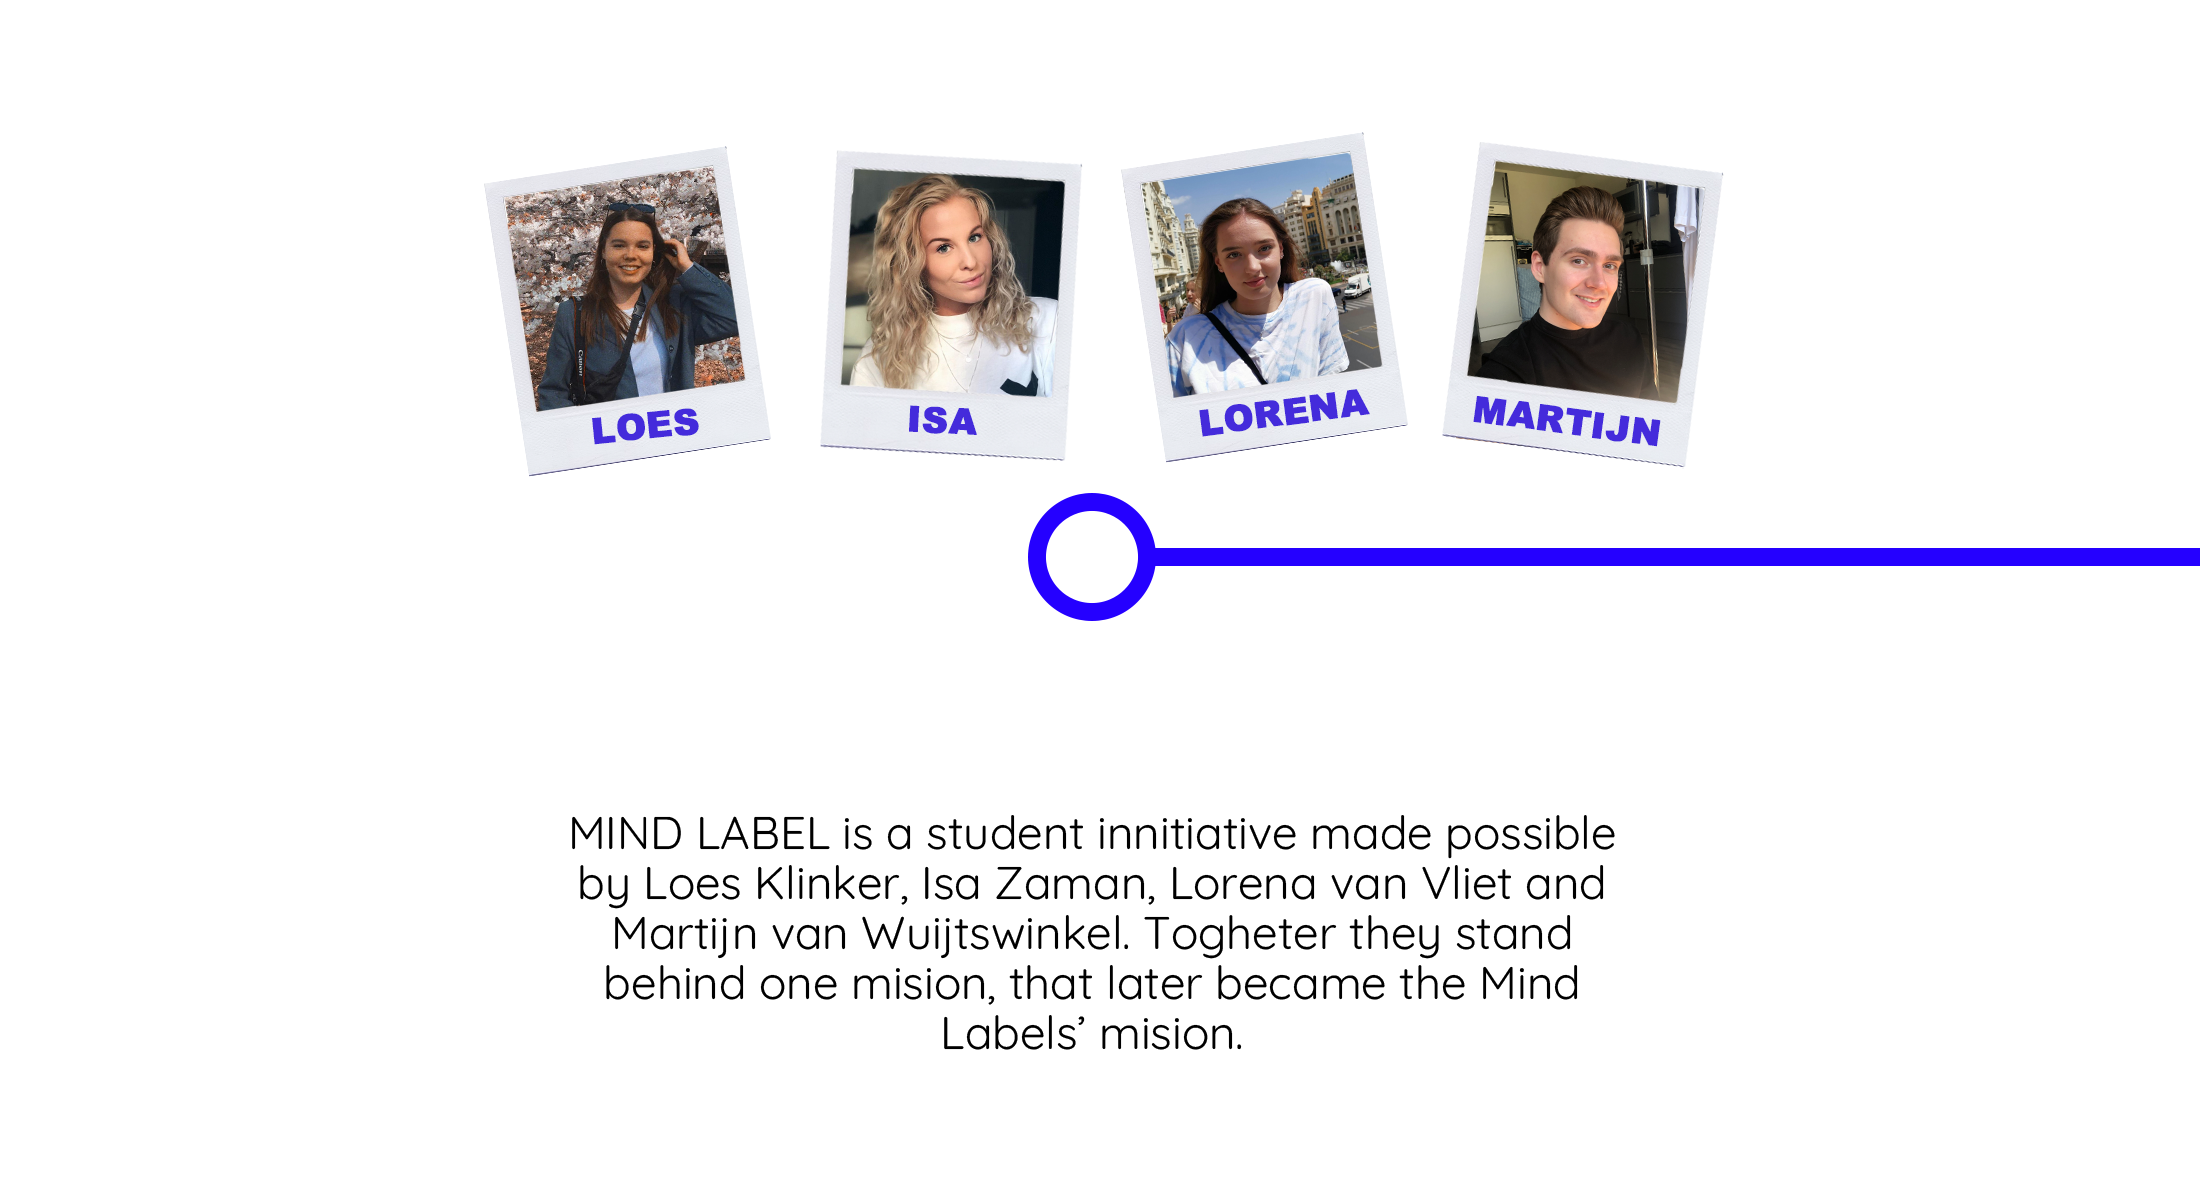
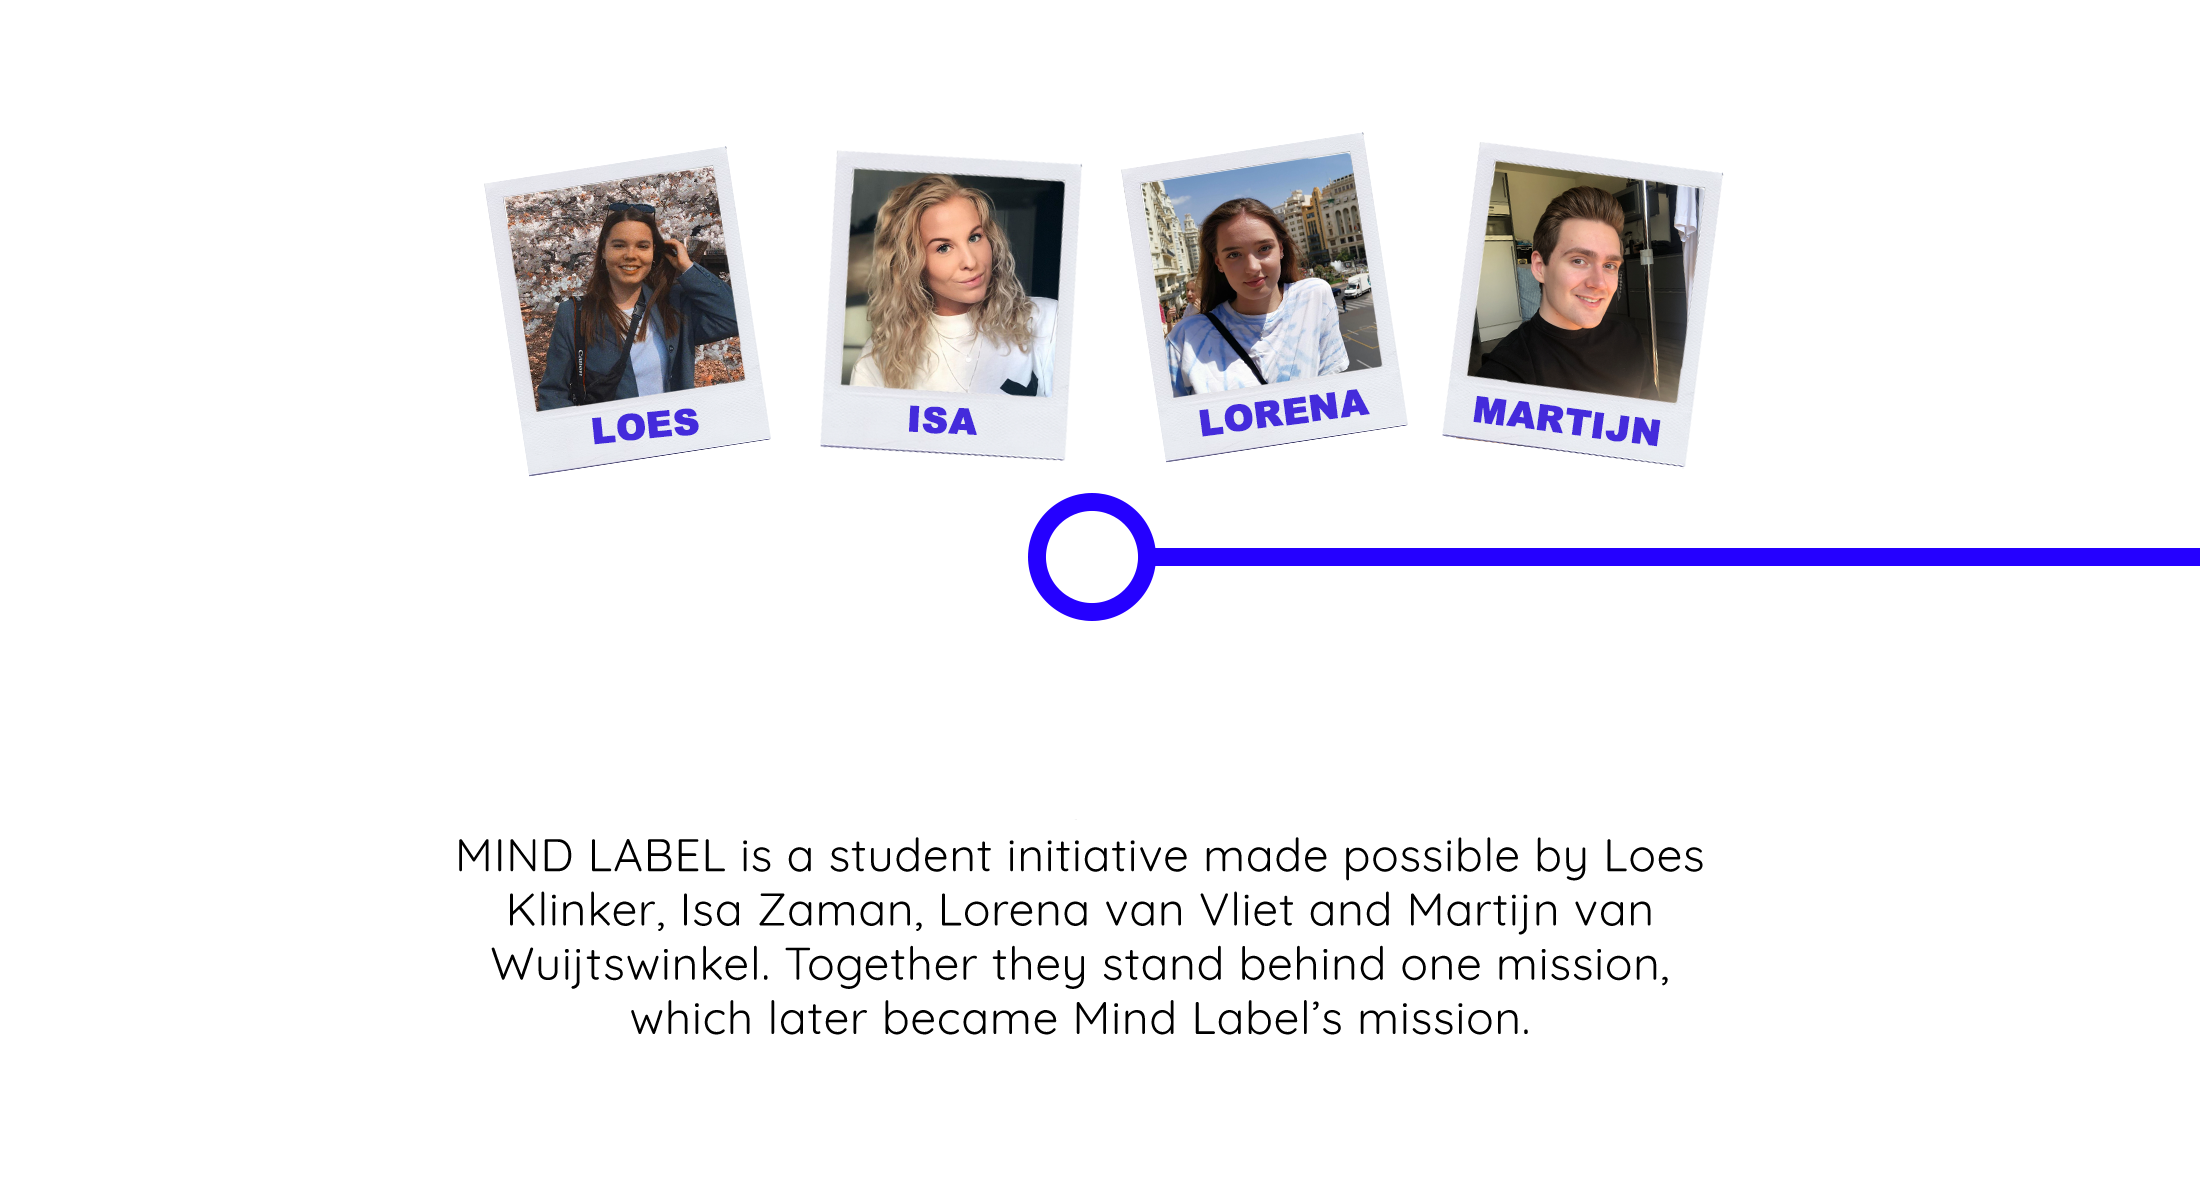
extra stuff loes

Changed region(s): [[0.2164, 0.6783, 0.7727, 0.8942]]

diff --git a/designjustification.html b/designjustification.html
@@ -12,6 +12,8 @@
    <link href="https://fonts.googleapis.com/css?family=Quicksand&display=swap" rel="stylesheet">
 <link href="https://fonts.googleapis.com/css2?family=Archivo+Black&display=swap" rel="stylesheet">
 	
+		<link rel="icon" href="images/logo.png">
+	
 	</head>
 <body>
 	  
@@ -26,8 +28,8 @@
   </button>
   <div class="collapse navbar-collapse" id="navbarNav">
     <ul class="navbar-nav">
-      <li class="nav-item active">
-        <a class="nav-link" href="index.html">Home <span class="sr-only">(current)</span></a>
+      <li class="nav-item ">
+        <a class="nav-link" href="index.html">Home</a>
       </li>
       <li class="nav-item">
         <a class="nav-link" href="ourstory.html">Our Story</a>
@@ -38,8 +40,8 @@
       <li class="nav-item">
         <a class="nav-link" href="reviews.html">Reviews</a>
       </li>
-	 <li class="nav-item">
-        <a class="nav-link" href="designjustification.html">Design Justification</a>
+	 <li class="nav-item active">
+        <a class="nav-link" href="designjustification.html">Design Justification <span class="sr-only">(current)</span> </a>
       </li>
     </ul>
   </div>
@@ -160,6 +162,141 @@ We developed our <b>style guide</b> during our assignment for Brand Developmet (
 				</div>
 	  </div> </div></div></div> 
 	  
+	
+	<h2 class="subheading">USER-TESTING RESULTS</h2>
+	
+	 <div class="container">
+  <div class="row">
+		<div class="col-12">
+			<p class="text-body2 text-center text-testimonial"> Here are our user-testing results for the final draft of our Mind Label website. We asked both parents and friends to participate to get a wide range of ages (so people with different technical abilities and habits) to go through our website. We had 8 people test our website and adapted the website after we received their feedback to enhance the overall appeal and user-friendliness of our website! <br><br>
+				
+				We created a survey that instructed the participant to go through each page, interact with it and then state what they liked and/or disliked about it.
+
+			</p>
+	  </div>
+		 </div>
+		 
+		 <div class="row">
+		 <div class="col-6 backgroundblock3">
+			 
+			 <h2 class="smallheader"> HOME PAGE FEEDBACK </h2>
+			 <ol type="1" class="text-body">
+			 
+			<li>I like the information that the home page gives and the option to choose between exploring or partner.</li>
+<li>I like the container with the image and that it is clear what everything is about. I dislike the image that is overlapping the text at are you an explorer.</li>
+<li>Love the colours and photo collage, demo is inviting. </li>
+<li>Really visual, I really like it. with the video and the text it is clear what you company is about. however, by using terms like explorer and future partner it is maybe a bit hard to find out what that means exactly. but I really like that you have your own "terminology" it makes the brand unique!</li>
+<li>I love the visuals! The whole 'collage' aesthetic is very appealing and catches your eye immediately. I don't dislike anything.</li>
+<li>I like the video! Really shows the product.</li>
+<li>Ik vind alle kleuren heel mooi en duidelijk <em>translation: “I like all the colours, very bright and clear.”</em></li>
+				 <li>I like the bright colors and the fact that everything is very clear and easy to see/find.</li>
+			 </ol>
+			 
+			 </div>
+		 
+		 
+			  <div class="col-6 backgroundblock3">
+			 
+<h2 class="smallheader"> OUR STORY PAGE FEEDBACK </h2>
+			 <ol type="1" class="text-body ">
+			 
+			<li>I really liked the visualization of the history of mindlabel.</li>
+<li>I like the carousel, and the story of yours</li>
+<li>Nice original time line, beautiful instagram feed, but get a bit distracted by typos</li>
+<li>Really cool with the carrousel with your journey! the page is visually very appealing and all info that you would want to find there is there! also nice links to other pages that fit with what you are thinking when you are on the page!</li>
+<li>The moving timeline is great! I think that's a really nice interactive element that also shows your capabilities with HTML coding.</li>
+<li>I like the timeline.</li>
+<li>Goede afwisseling alleen lettertype groter doen bij de optie balk voor verder te klikken enzo. Translation: <em>Good switch-up, only the font should be bigger at the slideshow for clicking further etc.</em> </li>
+<li>It's nice to see the Instagram feed on the 'Our Story' page also the fact that you see a roadmap with the people that worked on the Mind Label website. (tip: perhaps change the letter font for the regular text or make it a little bit smaller)
+</li>
+			 </ol>			 
+			 
+			 </div>
+			 
+		 </div>
+	</div>
+		 <div class="container">
+		  <div class="row">
+		<div class="col-12">
+			
+			<img src="images/results1.png" width="1100" class="results" alt="results from the survey about the navigation and the consistency of the website's theme">
+			
+	</div>
+		 </div>
+			 </div>
+	<div class="container">
+		 <div class="row">
+		 <div class="col-6 backgroundblock3">
+			 
+			 <h2 class="smallheader"> BUNDLES PAGE FEEDBACK </h2>
+			 <ol type="1" class="text-body">
+			 
+			<li>I like that there is three options to choose but I would like to see a bit more options as in which countries are available.</li>
+<li>I like the carousel at top and that you have different ones. </li>
+<li>Nice bundle options. </li>
+<li>I like the slide show with photo's it really makes the page visual also nice bundles, clear what they stand for and how they differ. also nice to have a contact part immediately there so you can contact the brand when interested immediately. Though it does say I accept the terms and conditions whilst I cannot find any anywhere?</li>
+<li>Again, I really like the visuals. The bundles shown through different colours of the logo is a professional, high-quality way of demonstrating your services. The only thing with this page is that some photos in the top header are not very good quality but I'm not sure if that is intentional?</li>
+<li>Clearly categorized! Maybe some more room at the sides.</li>
+<li>Ziet er goed uit <em>translation: “Looks good.”</em></li>
+				 <li>The colors and great and everything is easy to find and to understand. Perhaps the contact us part could have its own page.
+</li>
+			 </ol>
+			 
+			 </div>
+		 
+		 
+			  <div class="col-6 backgroundblock3">
+			 
+<h2 class="smallheader"> REVIEWS PAGE FEEDBACK </h2>
+			 <ol type="1" class="text-body ">
+			 
+			<li>This page feels honest and the quotes feel real. This is most of the times not the case on review pages but this feels genuinely real.</li>
+<li>I like the review boxes, with the stars and customer reviews.</li>
+<li>Clear review page</li>
+<li>Very clear and nice real reviews! nice to read through it really well done</li>
+<li>Reviews look awesome! I think the whole aesthetic of your website is very consistent, which shows a brand that knows their visual identity to its core.</li>
+<li>Very clear.</li>
+<li>Ziet er goed uit Translation: <em>Looks good. </em> </li>
+<li>The testimonials are fun to read and clear.
+</li>
+			 </ol>			 
+			 
+			 </div>
+			 
+		 </div>
+		</div>
+	
+	<div class="container">
+	<div class="row">
+		<div class="col-6">
+		
+		<img src="images/results2.png" width="530" class="results1" alt="results about the navigation of the website">
+		
+		
+		
+		</div>
+		
+		<div class="col-6 backgroundblock6">
+		
+		<h2 class="smallheader"> WHAT WE CHANGED </h2>
+		
+		<p class="text-body"> After receiving all of this feedback we decided to change the following, in order to make our website more user-friendly. 
+<ol class="text-body">
+	<li><u>NAVIGATION:</u> A lot of users were struggling with the navigation because we had forgot to add the “active” class to each individual page, meaning that each time the navigation bar would indicate that you were on the HOME page, even though you might have clicked on the review page.</li>
+	<li><u>TYPO’S:</u> We adjusted the spelling areas that the users noted on the “Our Story” page.</li>
+	<li><u>TERMS AND CONDITIONS:</u> Users could not find the link to our terms and conditions that we mention in the contact part of the “bundles page”. We added a link to clarify what the users are agreeing to before they submit their question or message.</li>
+</ol>
+		
+		
+		
+		</div>
+		
+		
+		</div>
+	
+	
+	</div>
+	
 	  <!-- VERANDER HIER ONDER NIKS -->  
 	  
 	  

diff --git a/ourstory.html b/ourstory.html
@@ -12,6 +12,8 @@
    <link href="https://fonts.googleapis.com/css?family=Quicksand&display=swap" rel="stylesheet">
 	<link href="https://fonts.googleapis.com/css2?family=Archivo+Black&display=swap" rel="stylesheet">
 	
+		<link rel="icon" href="images/logo.png">
+	
 	</head>
   <body>
 	  
@@ -26,11 +28,11 @@
   </button>
   <div class="collapse navbar-collapse" id="navbarNav">
     <ul class="navbar-nav">
-      <li class="nav-item active">
-        <a class="nav-link" href="index.html">Home <span class="sr-only">(current)</span></a>
+      <li class="nav-item ">
+        <a class="nav-link" href="index.html">Home </a>
       </li>
-      <li class="nav-item">
-        <a class="nav-link" href="ourstory.html">Our Story</a>
+      <li class="nav-item active">
+        <a class="nav-link" href="ourstory.html">Our Story <span class="sr-only">(current)</span></a>
       </li>
       <li class="nav-item">
         <a class="nav-link" href="bundles.html">VR Bundles</a>
@@ -70,7 +72,7 @@
 	  
 	  
     <div class="carousel-item active">
-      <img src="images/1st.png"  class="d-block w-20" style="width:100%;" alt="MIND LABEL is a student innitiative made possible by Loes Klinker, Isa Zaman, Lorena van Vliet and Martijn van Wuijtswinkel. Togheter they stand behind one mission, that later became the Mind Labels' mision.">
+      <img src="images/1st.png"  class="d-block w-20" style="width:100%;" alt="MIND LABEL is a student initiative made possible by Loes Klinker, Isa Zaman, Lorena van Vliet and Martijn van Wuijtswinkel. Togheter they stand behind one mission, that later became the Mind Labels' mission.">
     </div>
 	  
     <div class="carousel-item">
@@ -123,7 +125,7 @@
 				<br><br><br><br>
 				 <h2 class="subheading2">Our Instagram Feed</h2>
 				<p class="text-body" id="description"> 
-					Mind Label is active on various social media platforms such as <a class="hyperlinks" href="https://www.facebook.com/MINDLABEL2020/">Facebook</a> and <a class="hyperlinks" href="https://www.instagram.com/mind_label/">Instagram</a>. On these platforms we post engaging content and share interesting articles that highlight certain perstectives, people, and cultures. In order to move your mind! </p>
+					Mind Label is active on various social media platforms such as <a class="hyperlinks" href="https://www.facebook.com/MINDLABEL2020/">Facebook</a> and <a class="hyperlinks" href="https://www.instagram.com/mind_label/">Instagram</a>. On these platforms we post engaging content and share interesting articles that highlight certain perspectives, people, and cultures. In order to move your mind! </p>
 				
 	  			</div>
 			</div>

diff --git a/bundles.html b/bundles.html
@@ -12,6 +12,9 @@
    <link href="https://fonts.googleapis.com/css?family=Quicksand&display=swap" rel="stylesheet">
 <link href="https://fonts.googleapis.com/css2?family=Archivo+Black&display=swap" rel="stylesheet">
 	
+	<link rel="icon" href="images/logo.png">
+
+	
 	</head>
 <body>
 	  
@@ -26,14 +29,14 @@
   </button>
   <div class="collapse navbar-collapse" id="navbarNav">
     <ul class="navbar-nav">
-      <li class="nav-item active">
-        <a class="nav-link" href="index.html">Home <span class="sr-only">(current)</span></a>
+      <li class="nav-item ">
+        <a class="nav-link" href="index.html">Home </a>
       </li>
       <li class="nav-item">
         <a class="nav-link" href="ourstory.html">Our Story</a>
       </li>
-      <li class="nav-item">
-        <a class="nav-link" href="bundles.html">VR Bundles</a>
+      <li class="nav-item active">
+        <a class="nav-link" href="bundles.html">VR Bundles<span class="sr-only">(current)</span></a>
       </li>
       <li class="nav-item">
         <a class="nav-link" href="reviews.html">Reviews</a>
@@ -142,7 +145,7 @@ CONTACT US! </h2>
         </div>
 	    <div class="form-check bundletext col-7 col-md-10">
 	      <input type="checkbox" class="form-check-input" id="exampleCheck1">
-	      <label class="form-check-label" for="exampleCheck1">I AGREE AND HAVE READ THE TERMS OF CONDITIONS</label>
+	      <label class="form-check-label" for="exampleCheck1">I AGREE AND HAVE READ THE <a href="https://www.youtube.com/watch?v=dQw4w9WgXcQ" target="_blank" class="hyperlinks" >TERMS AND CONDITIONS</a></label>
         </div><br>
 	    <button type="submit" class="btn btn-primary submit">SUBMIT</button>
       </form>

diff --git a/css/styles.css b/css/styles.css
@@ -182,16 +182,14 @@ font-family: 'Archivo Black', sans-serif;
     float: none;
 }
 .thee {
-	font-family: arial Impact, Haettenschweiler, "Franklin Gothic Bold", "Arial Black", "sans-serif";
+font-family: 'Archivo Black', sans-serif;
 	color: #2500ffff;
 	text-align: center;
 }.thee1 {
-	font-family: arial Impact, Haettenschweiler, "Franklin Gothic Bold", "Arial Black", "sans-serif";
-	color: #fc7a68;
+font-family: 'Archivo Black', sans-serif;	color: #fc7a68;
 		text-align: center;
 }.thee2 {
-	font-family: arial Impact, Haettenschweiler, "Franklin Gothic Bold", "Arial Black", "sans-serif";
-	color: #c9b9eb;
+font-family: 'Archivo Black', sans-serif;	color: #c9b9eb;
 	text-align: center;
 }
 .bundletext {
@@ -245,6 +243,15 @@ font-family: 'Archivo Black', sans-serif;
 	color: #fc7a68;
 	text-align: left;
 }
+
+.backgroundblock6 {
+	background: white;
+	margin-top: 20px;
+	font-family: 'Archivo Black', sans-serif;
+	color: #2500ff;
+	text-align: center;
+}
+	
 .gallery {
 	margin: 1px;
 }
@@ -253,3 +260,27 @@ font-family: 'Archivo Black', sans-serif;
 	text-align: left;
 
 }
+
+.smallheader {
+	margin-top: 15px;
+}
+
+.text-body2 {
+	font-family: 'Quicksand', sans-serif;
+	text-align: left;
+	font-size: 20px;
+	
+	
+}
+
+.results {
+	margin-top: 20px;
+	margin-bottom: 20px;
+}
+
+.results1 {
+	margin-top: 20px;
+	margin-bottom: 20px;
+	margin-right: 10px;
+}
+

diff --git a/reviews.html b/reviews.html
@@ -13,6 +13,8 @@
    <link href="https://fonts.googleapis.com/css?family=Quicksand&display=swap" rel="stylesheet">
 	  <link href="https://fonts.googleapis.com/css2?family=Archivo+Black&display=swap" rel="stylesheet">
 	
+		<link rel="icon" href="images/logo.png">
+	
   </head>
   <body>
 	  
@@ -27,8 +29,8 @@
   </button>
   <div class="collapse navbar-collapse" id="navbarNav">
     <ul class="navbar-nav">
-      <li class="nav-item active">
-        <a class="nav-link" href="index.html">Home <span class="sr-only">(current)</span></a>
+      <li class="nav-item ">
+        <a class="nav-link" href="index.html">Home</a>
       </li>
       <li class="nav-item">
         <a class="nav-link" href="ourstory.html">Our Story</a>
@@ -36,8 +38,8 @@
       <li class="nav-item">
         <a class="nav-link" href="bundles.html">VR Bundles</a>
       </li>
-      <li class="nav-item">
-        <a class="nav-link" href="reviews.html">Reviews</a>
+      <li class="nav-item active">
+        <a class="nav-link" href="reviews.html">Reviews<span class="sr-only">(current)</span></a>
       </li>
 	 <li class="nav-item">
         <a class="nav-link" href="designjustification.html">Design Justification</a>

diff --git a/index.html b/index.html
@@ -12,7 +12,7 @@
     <link rel="stylesheet" href="css/bootstrap.min.css">
    <link href="https://fonts.googleapis.com/css?family=Quicksand&display=swap" rel="stylesheet">
 <link href="https://fonts.googleapis.com/css2?family=Archivo+Black&display=swap" rel="stylesheet">
-
+	<link rel="icon" href="images/logo.png">
 	
 	</head>
   <body>
